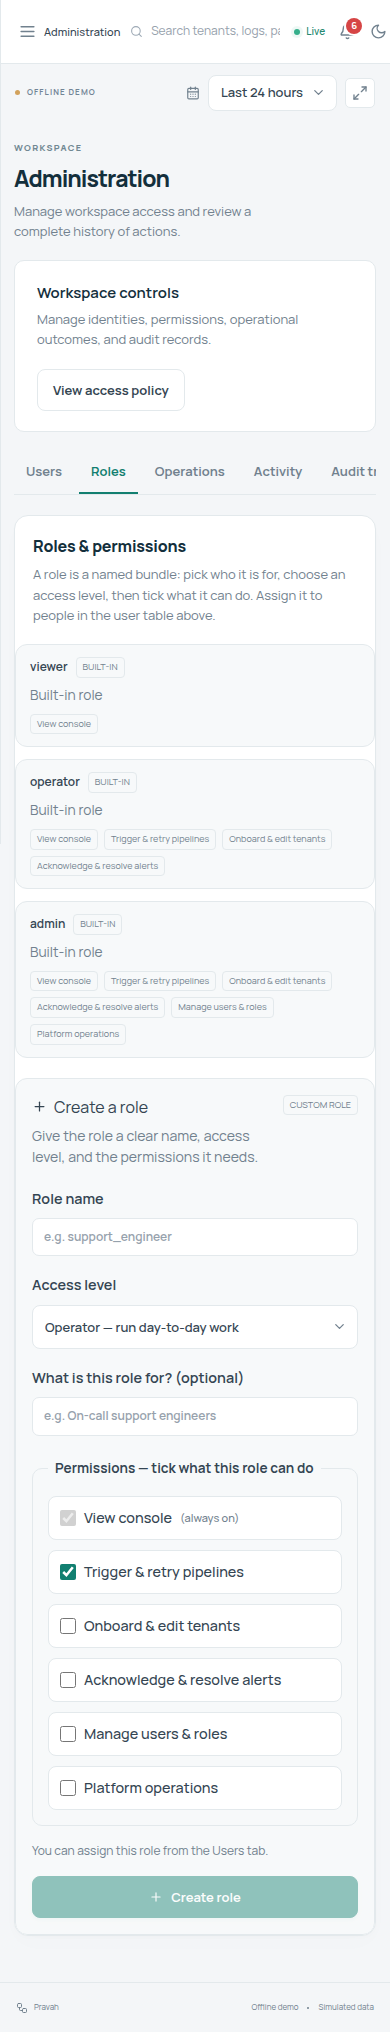
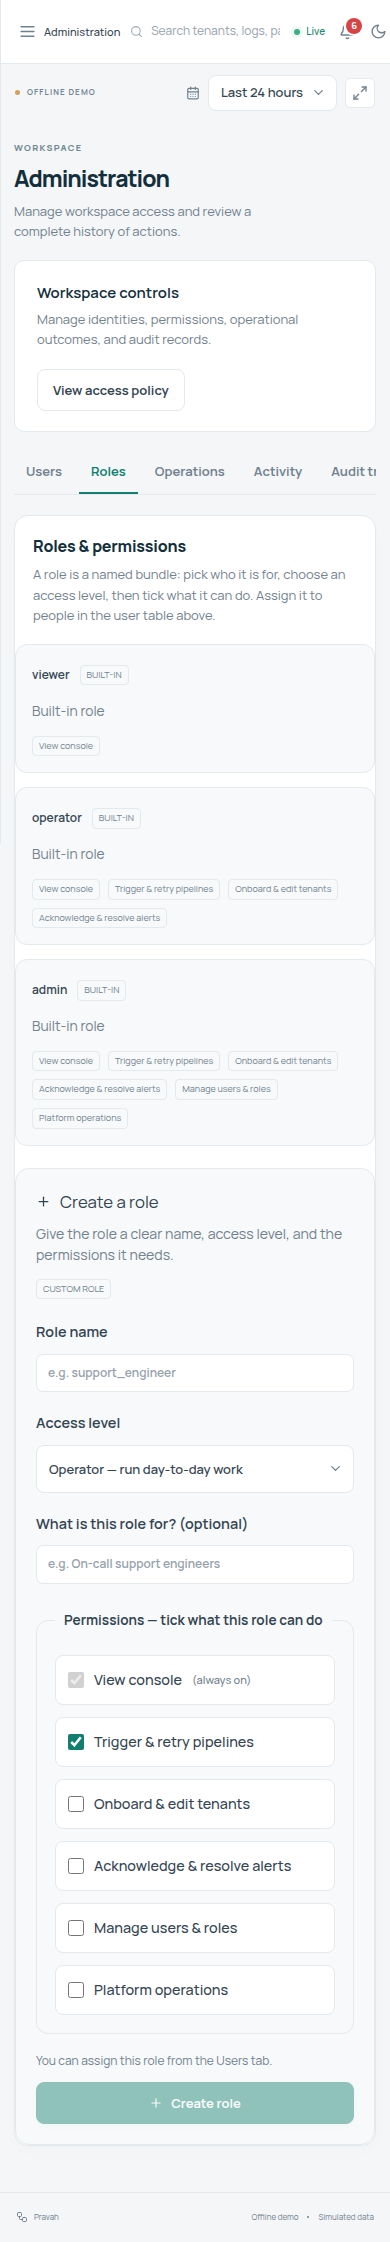
Improve role screen spacing consistency

diff --git a/frontend/src/app.css b/frontend/src/app.css
@@ -3939,19 +3939,21 @@ button.workspace-switch:hover {
 .roles-list {
   display: grid;
   grid-template-columns: repeat(auto-fit, minmax(260px, 1fr));
-  gap: 12px;
-  margin-bottom: 18px;
+  gap: 16px;
+  margin-bottom: 28px;
 }
 .role-card {
   border: 1px solid var(--line);
   border-radius: 12px;
-  padding: 12px 14px;
+  padding: 18px;
   animation: pop-in 0.28s cubic-bezier(0.22, 1, 0.36, 1);
 }
 .role-card-head {
   display: flex;
   align-items: center;
-  gap: 8px;
+  gap: 10px;
+  min-height: 28px;
+  flex-wrap: wrap;
 }
 .role-card-head .icon-button {
   margin-left: auto;
@@ -3959,37 +3961,38 @@ button.workspace-switch:hover {
 .role-desc {
   color: var(--muted);
   font-size: 0.86rem;
-  margin: 6px 0;
+  line-height: 1.5;
+  margin: 12px 0 0;
 }
 .role-perms {
   display: flex;
   flex-wrap: wrap;
-  gap: 6px;
-  margin-top: 8px;
+  gap: 8px;
+  margin-top: 14px;
 }
 .role-form {
-  margin-top: 20px;
-  padding: 20px;
+  margin-top: 0;
+  padding: 28px;
   border: 1px solid var(--line);
-  border-radius: 12px;
+  border-radius: 14px;
   background: var(--subtle);
 }
 .role-form-heading {
   display: flex;
   align-items: flex-start;
   justify-content: space-between;
-  gap: 18px;
-  margin-bottom: 20px;
+  gap: 24px;
+  margin-bottom: 28px;
 }
 .role-form-heading h4 {
   display: flex;
   align-items: center;
-  gap: 7px;
+  gap: 9px;
   margin: 0;
-  font-size: 1rem;
+  font-size: 1.05rem;
 }
 .role-form-heading p {
-  margin: 6px 0 0;
+  margin: 8px 0 0;
   color: var(--muted);
   font-size: 0.88rem;
   line-height: 1.5;
@@ -3997,13 +4000,13 @@ button.workspace-switch:hover {
 .role-form-grid {
   display: grid;
   grid-template-columns: repeat(2, minmax(0, 1fr));
-  gap: 18px 24px;
+  gap: 24px 28px;
 }
 .role-form-grid label,
 .role-form label {
   display: flex;
   flex-direction: column;
-  gap: 8px;
+  gap: 10px;
   font-size: 0.9rem;
   font-weight: 600;
 }
@@ -4011,33 +4014,33 @@ button.workspace-switch:hover {
   grid-column: 1 / -1;
 }
 .role-form input:not([type='checkbox']) {
-  min-height: 44px;
+  min-height: 48px;
 }
 .role-form .ui-select-btn {
-  min-height: 44px;
+  min-height: 48px;
 }
 .role-perms-picker {
   border: 1px solid var(--line);
-  border-radius: 10px;
-  margin: 22px 0 16px;
-  padding: 15px;
+  border-radius: 12px;
+  margin: 30px 0 22px;
+  padding: 20px;
   display: grid;
-  grid-template-columns: repeat(auto-fit, minmax(min(100%, 300px), 1fr));
-  gap: 10px 12px;
+  grid-template-columns: repeat(auto-fit, minmax(min(100%, 280px), 1fr));
+  gap: 14px;
 }
 .role-perms-picker legend {
   grid-column: 1 / -1;
-  padding: 0 7px;
-  margin-bottom: 2px;
+  padding: 0 9px;
+  margin-bottom: 6px;
   font-size: 0.85rem;
   font-weight: 650;
 }
 .role-perms-picker .check-row {
   flex-direction: row;
   align-items: center;
-  gap: 8px;
-  min-height: 44px;
-  padding: 9px 11px;
+  gap: 10px;
+  min-height: 52px;
+  padding: 12px 14px;
   border: 1px solid var(--line);
   border-radius: 8px;
   background: var(--surface);
@@ -4057,25 +4060,54 @@ button.workspace-switch:hover {
   display: flex;
   align-items: center;
   justify-content: space-between;
-  gap: 16px;
-  margin-top: 8px;
+  gap: 20px;
+  margin-top: 18px;
 }
 @media (max-width: 720px) {
-  .role-form {
+  .roles-list {
+    gap: 14px;
+    margin-bottom: 22px;
+  }
+  .role-card {
     padding: 16px;
+  }
+  .role-form {
+    padding: 20px;
+  }
+  .role-form-heading {
+    gap: 14px;
+    margin-bottom: 22px;
   }
   .role-form-grid {
     grid-template-columns: minmax(0, 1fr);
+    gap: 20px;
   }
   .role-description-field {
     grid-column: auto;
   }
+  .role-perms-picker {
+    margin: 26px 0 18px;
+    padding: 18px;
+    gap: 12px;
+  }
+  .role-perms-picker .check-row {
+    min-height: 50px;
+    padding: 12px;
+  }
   .role-form-actions {
     align-items: stretch;
     flex-direction: column;
+    gap: 12px;
+    margin-top: 14px;
   }
   .role-form-actions .button {
     justify-content: center;
+  }
+}
+@media (max-width: 520px) {
+  .role-form-heading {
+    flex-direction: column;
+    align-items: flex-start;
   }
 }
 .temp-password {

diff --git a/tests/e2e/access.spec.ts b/tests/e2e/access.spec.ts
@@ -194,8 +194,24 @@ test("role creation stays readable and usable on desktop and mobile", async ({
   const descriptionBounds = await page
     .getByPlaceholder("e.g. On-call support engineers")
     .boundingBox();
+  const firstRoleCard = await page.locator(".role-card").nth(0).boundingBox();
+  const secondRoleCard = await page.locator(".role-card").nth(1).boundingBox();
+  const roleList = await page.locator(".roles-list").boundingBox();
+  const roleForm = await page.locator(".role-form").boundingBox();
   expect(nameBounds?.width).toBeGreaterThan(400);
   expect(descriptionBounds?.width).toBeGreaterThan(nameBounds?.width ?? 0);
+  expect(
+    (secondRoleCard?.x ?? 0) -
+      ((firstRoleCard?.x ?? 0) + (firstRoleCard?.width ?? 0)),
+  ).toBeGreaterThanOrEqual(14);
+  expect(
+    (roleForm?.y ?? 0) - ((roleList?.y ?? 0) + (roleList?.height ?? 0)),
+  ).toBeGreaterThanOrEqual(24);
+  await page.screenshot({
+    path: path.resolve("../output/screenshots/admin-roles.png"),
+    fullPage: true,
+    animations: "disabled",
+  });
 
   await page.setViewportSize({ width: 390, height: 844 });
   await expect(nameField).toBeVisible();
